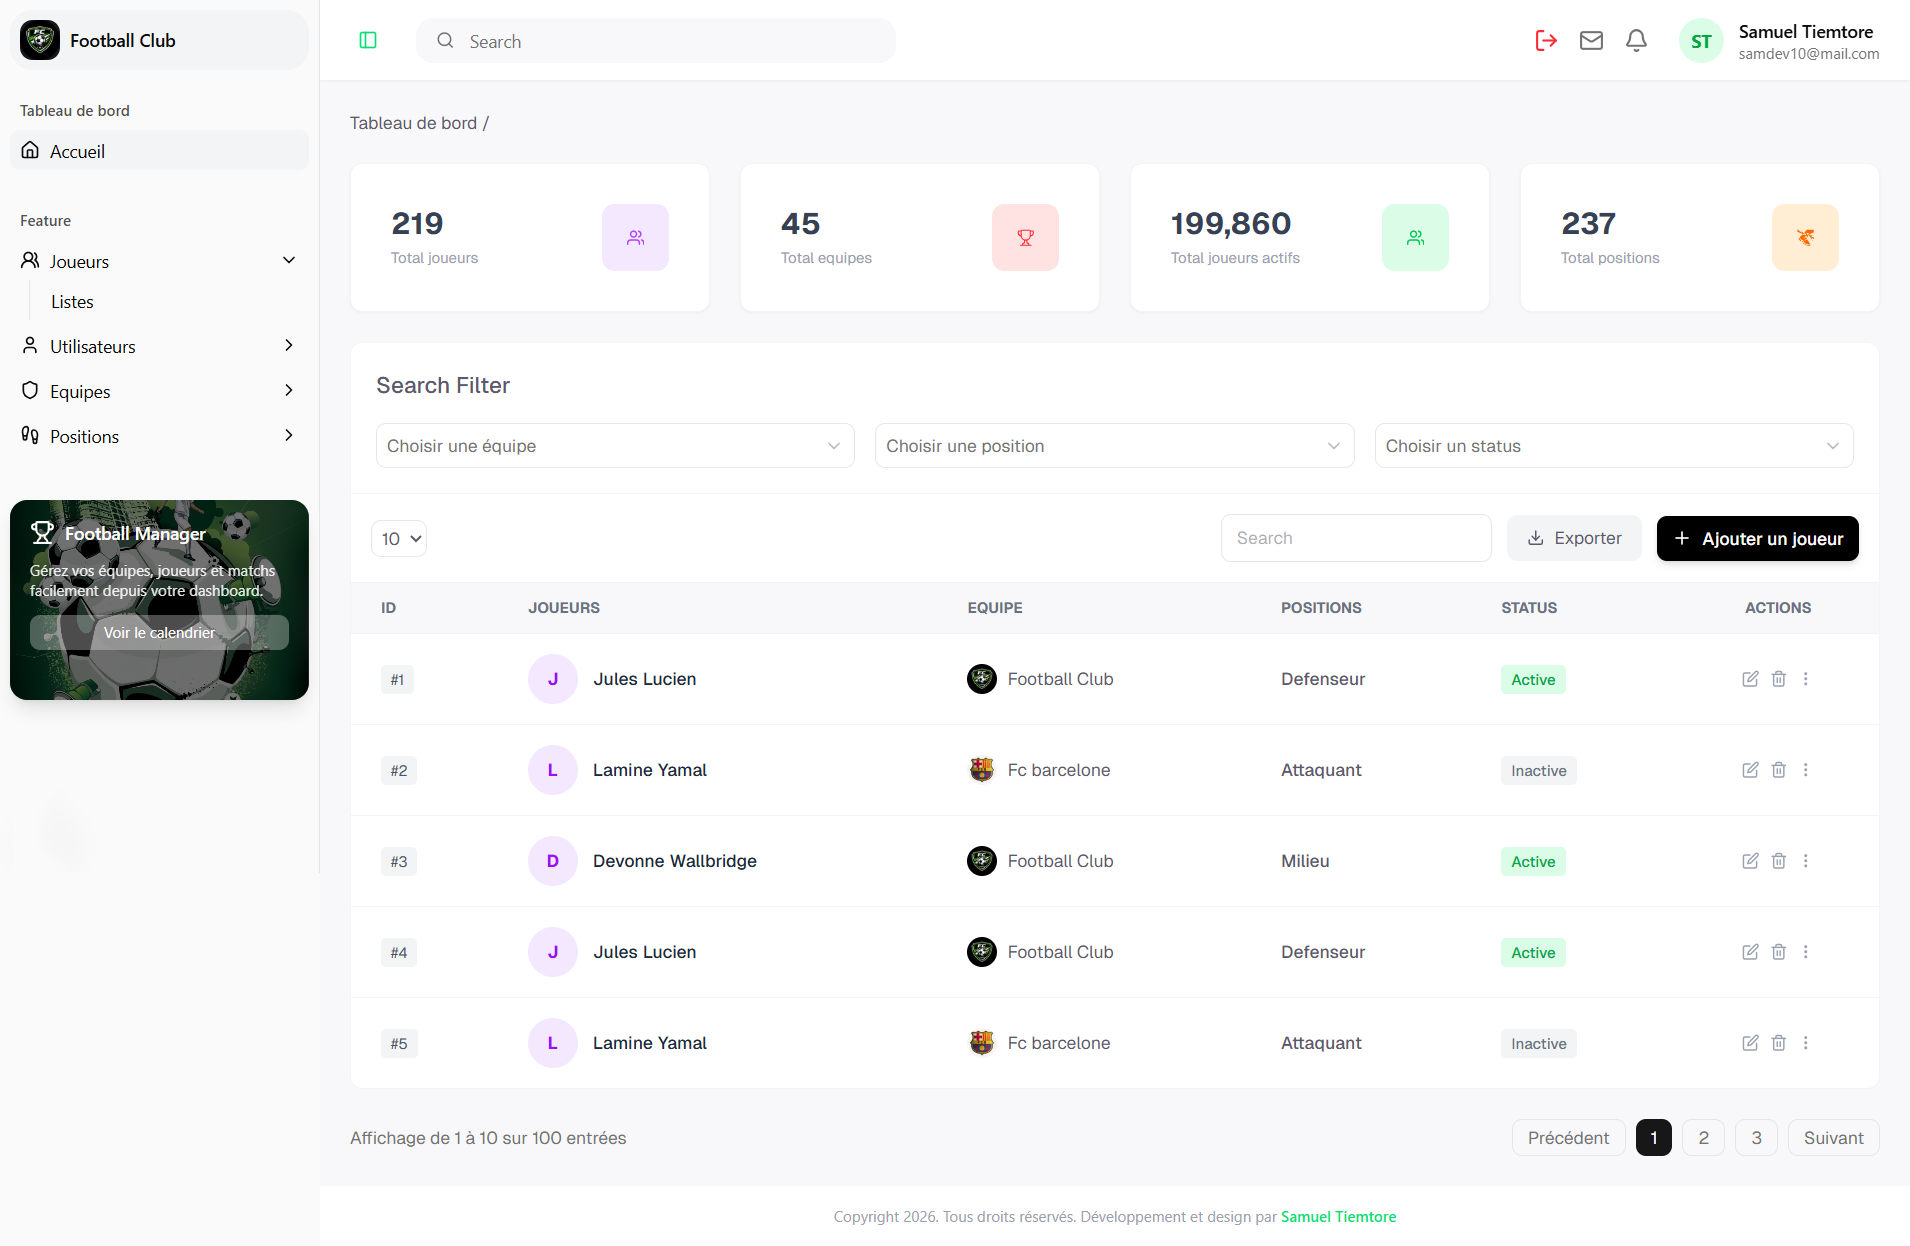
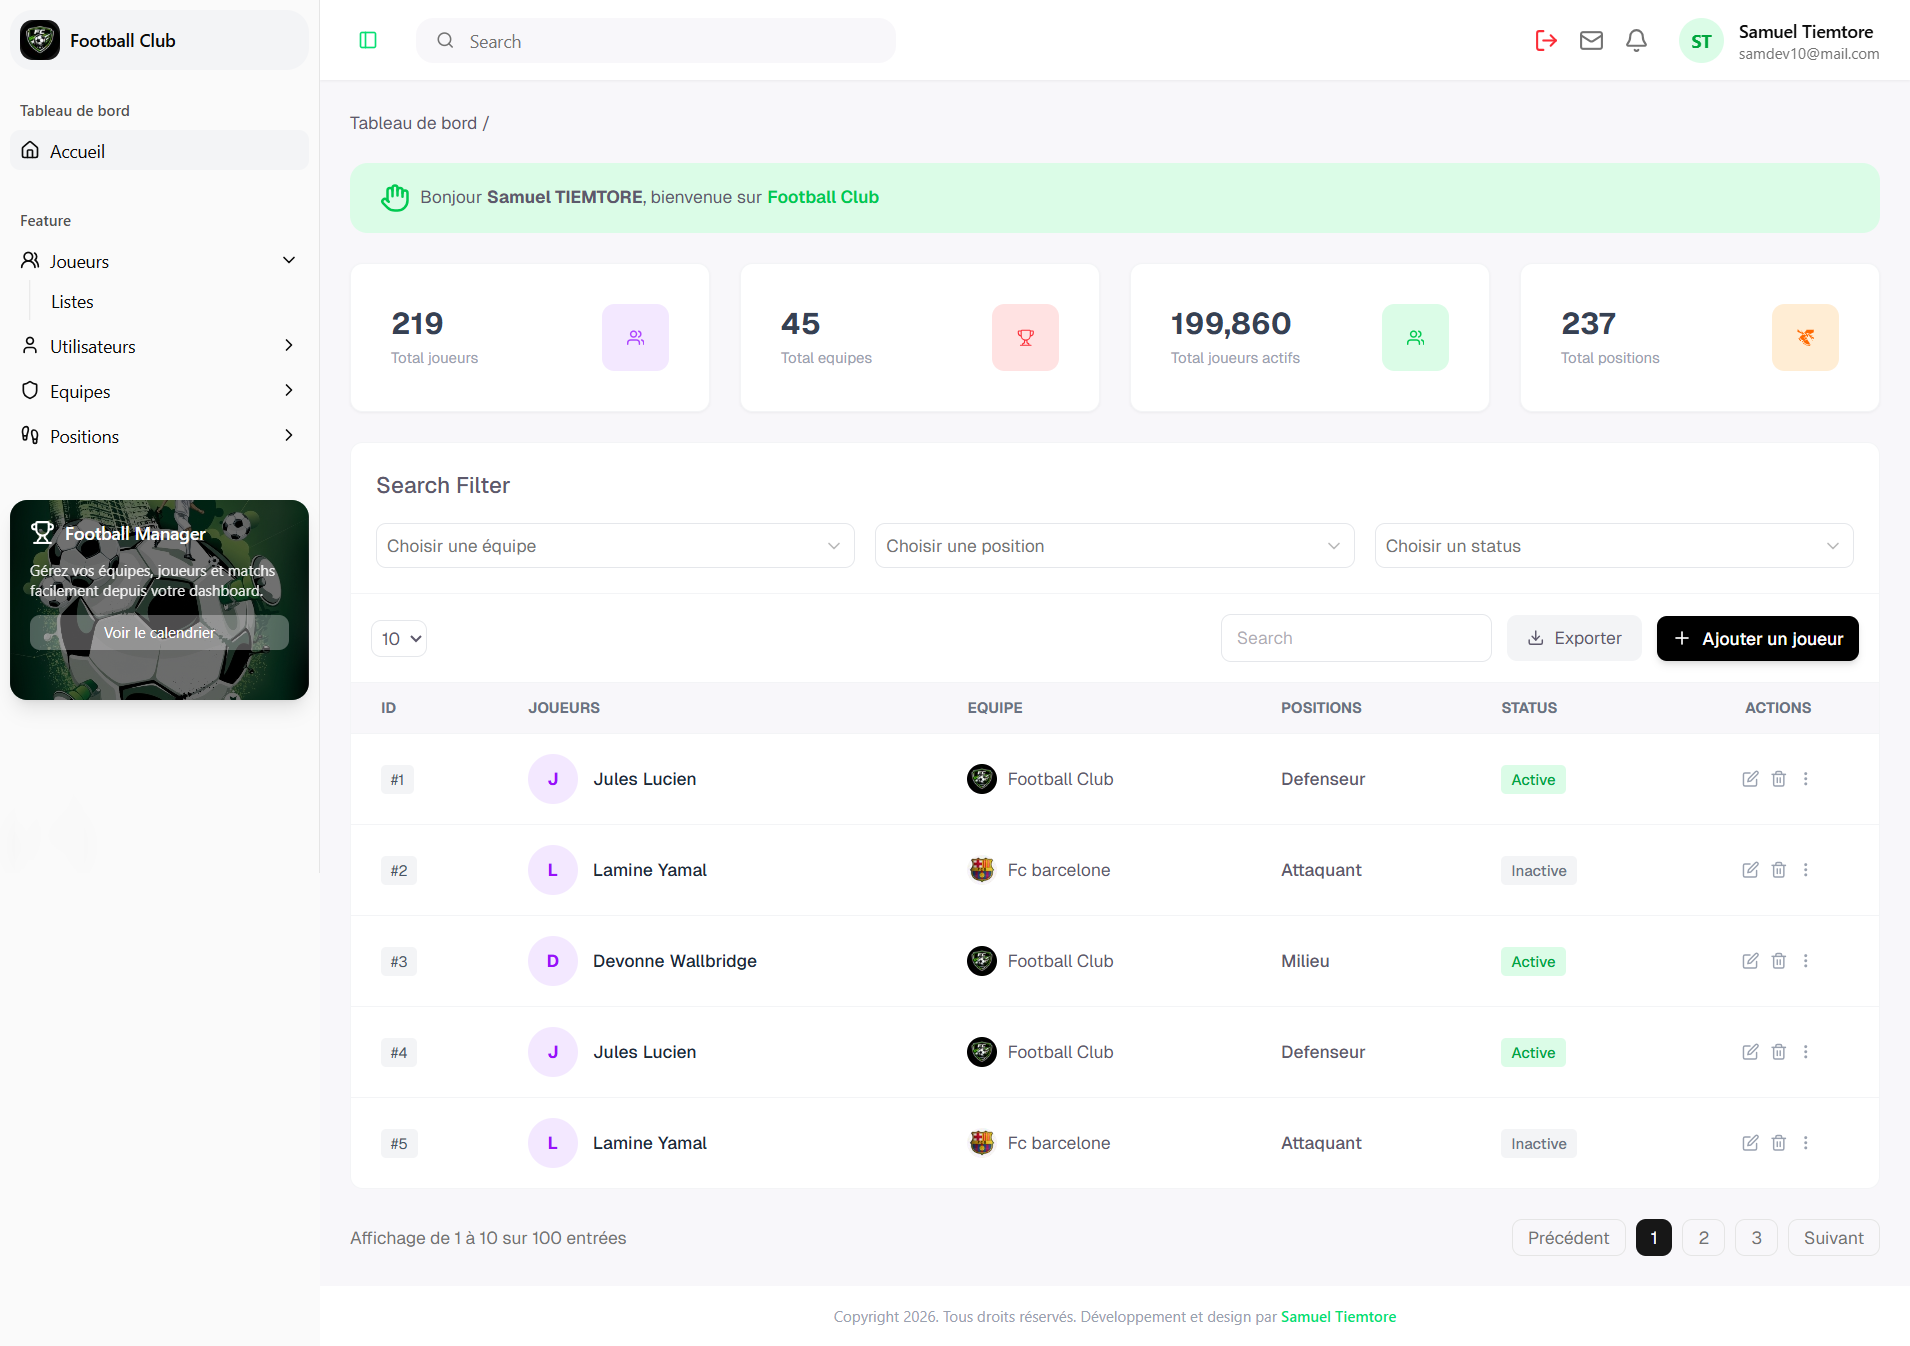
docs/readme-users-screenshots and update dashboard main (#4)

diff --git a/src/features/dashbaord/components/dashbaord-main.tsx b/src/features/dashbaord/components/dashbaord-main.tsx
@@ -6,23 +6,37 @@ import { StatsCards } from "@/features/players/components/stats-cards";
 import { PlayersFilters } from "@/features/players/components/players-filters";
 import { PlayersActions } from "@/features/players/components/players-actions";
 import { PlayersTable } from "@/features/players/components/players-table";
-
+import { Hand } from "lucide-react";
 
 export default function PlayersList() {
-  const { exportPDF } = usePlayersExport(); 
+  const { exportPDF } = usePlayersExport();
 
   return (
     <div className="p-0 bg-[#F8F7FA] min-h-screen text-[13px] md:text-[14px] font-sans text-[#5d596c]">
-      
-      <p>Tableau de bord /</p>
+
+       <p>Tableau de bord /</p>
       <br />
+
+      {/* Hero */}
+      <div className="bg-green-100 py-4 px-4 sm:px-6 mb-6 rounded-xl">
+        <p className="flex items-start sm:items-center gap-2 text-sm sm:text-base md:text-[14px] leading-relaxed">
+          <Hand className="text-green-500 mt-1 sm:mt-0 shrink-0" />
+
+          <span>
+            Bonjour <strong>Samuel TIEMTORE</strong>, bienvenue sur
+            <span className="text-green-500 font-semibold ml-1">
+              Football Club
+            </span>
+          </span>
+        </p>
+      </div>
 
       <StatsCards />
 
       <div className="bg-white rounded-lg border border-gray-100">
         <PlayersFilters />
-        <PlayersActions onExport={exportPDF}/>
-        <PlayersTable/>
+        <PlayersActions onExport={exportPDF} />
+        <PlayersTable />
       </div>
 
       <Pagination />

diff --git a/src/app/dashboard/users/page.tsx b/src/app/dashboard/users/page.tsx
@@ -1,4 +1,4 @@
-import UserListDashboard from "@/features/users/UserListDashboard";
+import UserListDashboard from "@/features/users/user-list-dashboard";
 
 export default function UsersPage() {
   return (

diff --git a/README.md b/README.md
@@ -56,9 +56,12 @@ Construit avec Next.js et connecté à une API backend NestJS + Prisma.
 | ![forgot-password](./assets/screenshots/forgot-password.png) | ![reset-password](./assets/screenshots/reset-password.png) |
 | Dashboard | Dashboard player |
 | ![dashboard](./assets/screenshots/dashboard.png) | ![dashboard-player](./assets/screenshots/dashboard-player.png) |
-| pop add player |
-| ![pop-add-player](./assets/screenshots/pop-add-player.png) |
-
+| pop add player | Dashboard user |
+| ![pop-add-player](./assets/screenshots/pop-add-player.png) | ![dashboard-users](./assets/screenshots/dashboard-users.png) |
+| pop add user | pop delete user |
+| ![pop-add-users](./assets/screenshots/pop-add-users.png) | ![pop-delete-users](./assets/screenshots/pop-delete-users.png) |
+| pop update user |
+| ![pop-update-users](./assets/screenshots/pop-update-users.png) |
 
 
 ## Architecture du projet
